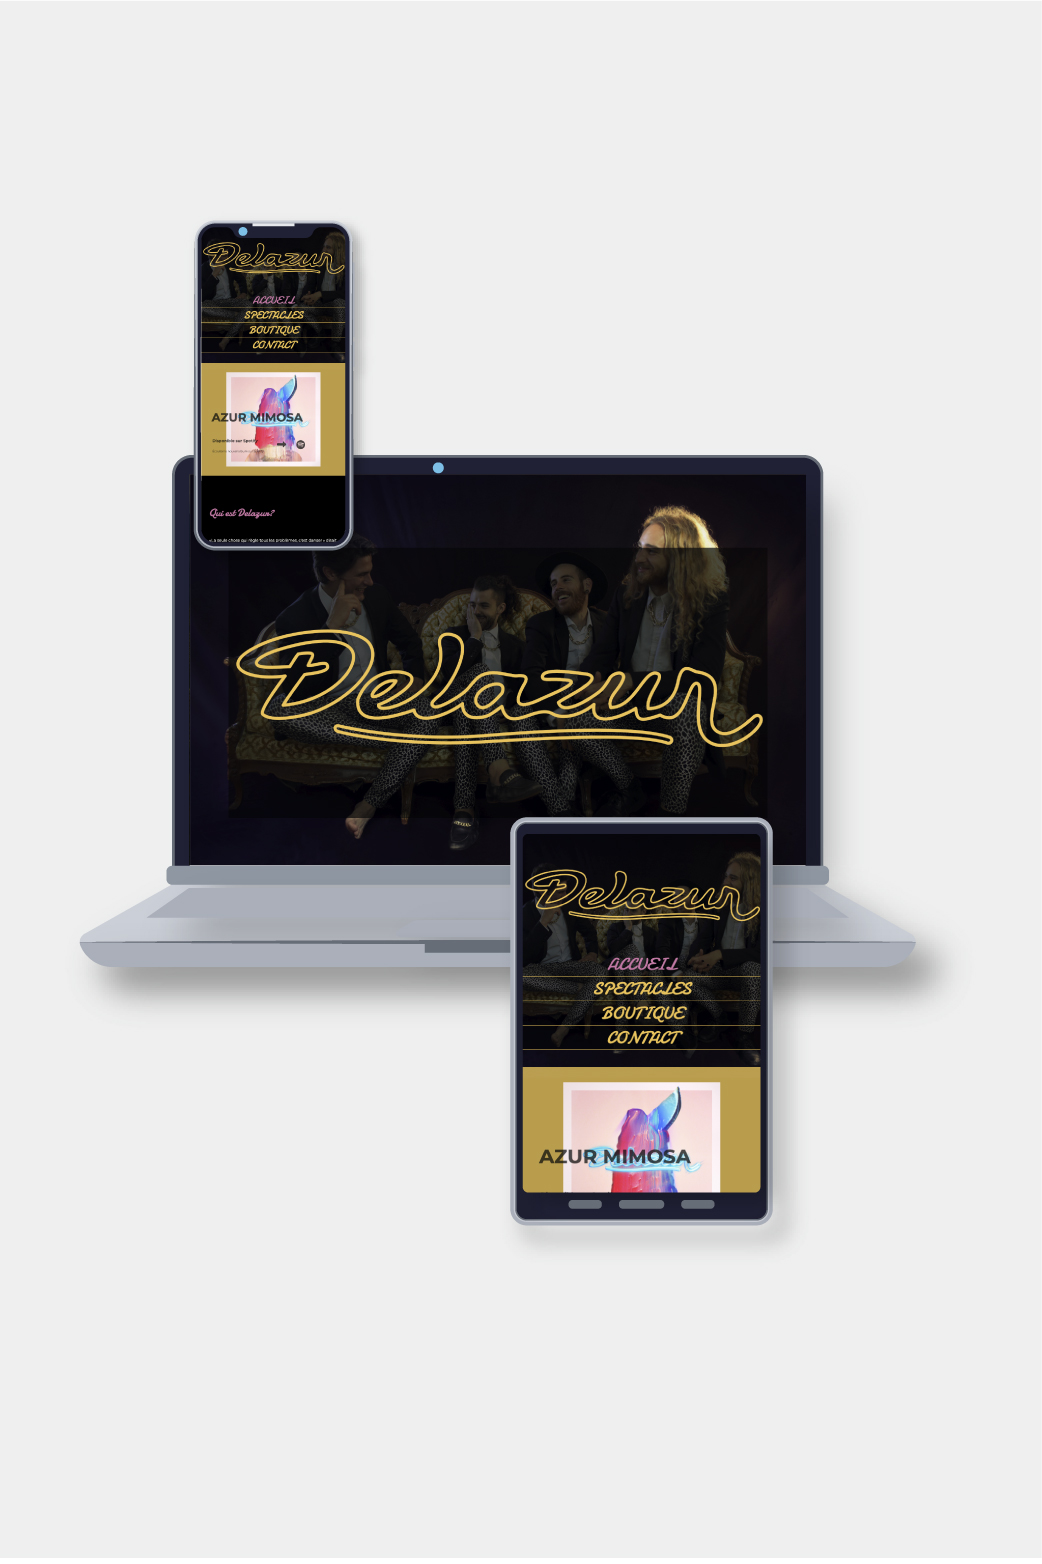
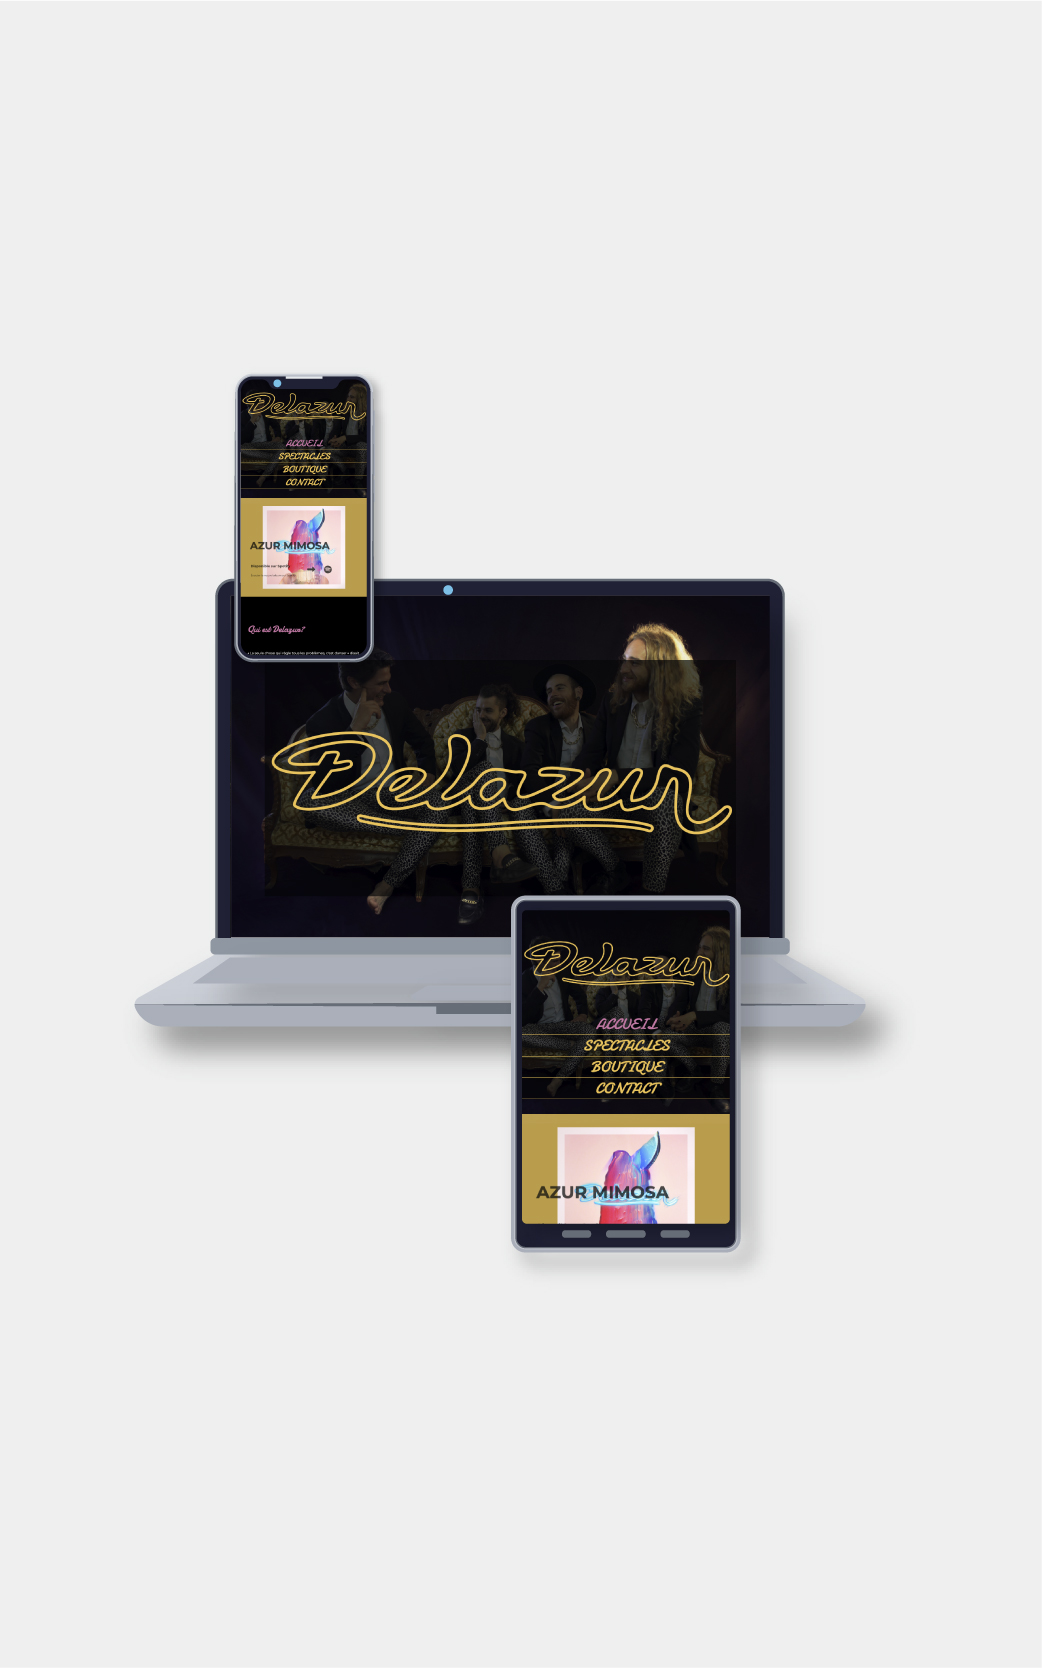
9ecommit

Changed region(s): [[0.0614, 0.1228, 0.9213, 0.798]]

diff --git a/src/assets/styles/main.scss b/src/assets/styles/main.scss
@@ -55,6 +55,7 @@
       object-fit: cover;
       object-position: top center;
       border-radius: 10px;
+      @include mixins.card-shadow;
       @include mixins.tablet {
         height: 26.25rem;
       }
@@ -151,8 +152,11 @@
   flex-direction: column;
   gap: 1.2rem;
   padding-top: 2.75rem;
+  padding-bottom: 0;
+  margin: 0;
   max-width: 1300px;
   box-sizing: border-box;
+  line-height: 0;
   @include mixins.border-t();
   @include mixins.tablet {
     display: grid;
@@ -186,11 +190,14 @@
   }
 
   img {
+    display: block;
     width: 100%;
     height: 100%;
     object-fit: cover;
-    object-position: center;
     @include mixins.rounded;
+    line-height: 0;
+    padding: 0;
+    margin: 0;
   }
 }
 
@@ -271,7 +278,7 @@
 
   .infos-holder {
     @include mixins.flex-center(column, space-between, stretch);
-    gap: 1rem;
+    // gap: 1rem;
     @include mixins.tablet {
       transform: translateY(-60px);
     }
@@ -303,7 +310,9 @@
 
     img {
       width: 100%;
+      height: 100%;
       object-fit: cover;
+      // overflow: hidden;
       @include mixins.tablet {
         width: 40%;
         height: 450px;

diff --git a/src/assets/styles/partials/_mixins.scss b/src/assets/styles/partials/_mixins.scss
@@ -32,28 +32,6 @@ $font-size-base: 16px;
   align-items: $align;
 }
 
-// // PADDING
-// $pI: 0;
-
-// @while $pI <= 100 {
-//   .g-#{$pI} {
-//     gap: toRem($pI);
-//   }
-
-//   $pI: $pI + 1;
-// }
-
-// // GAP
-// $gapI: 0;
-
-// @while $gapI <= 100 {
-//   .g-#{$gapI} {
-//     gap: toRem($gapI);
-//   }
-
-//   $gapI: $gapI + 1;
-// }
-
 @mixin rounded($radius: 30) {
   border-radius: $radius;
 }
